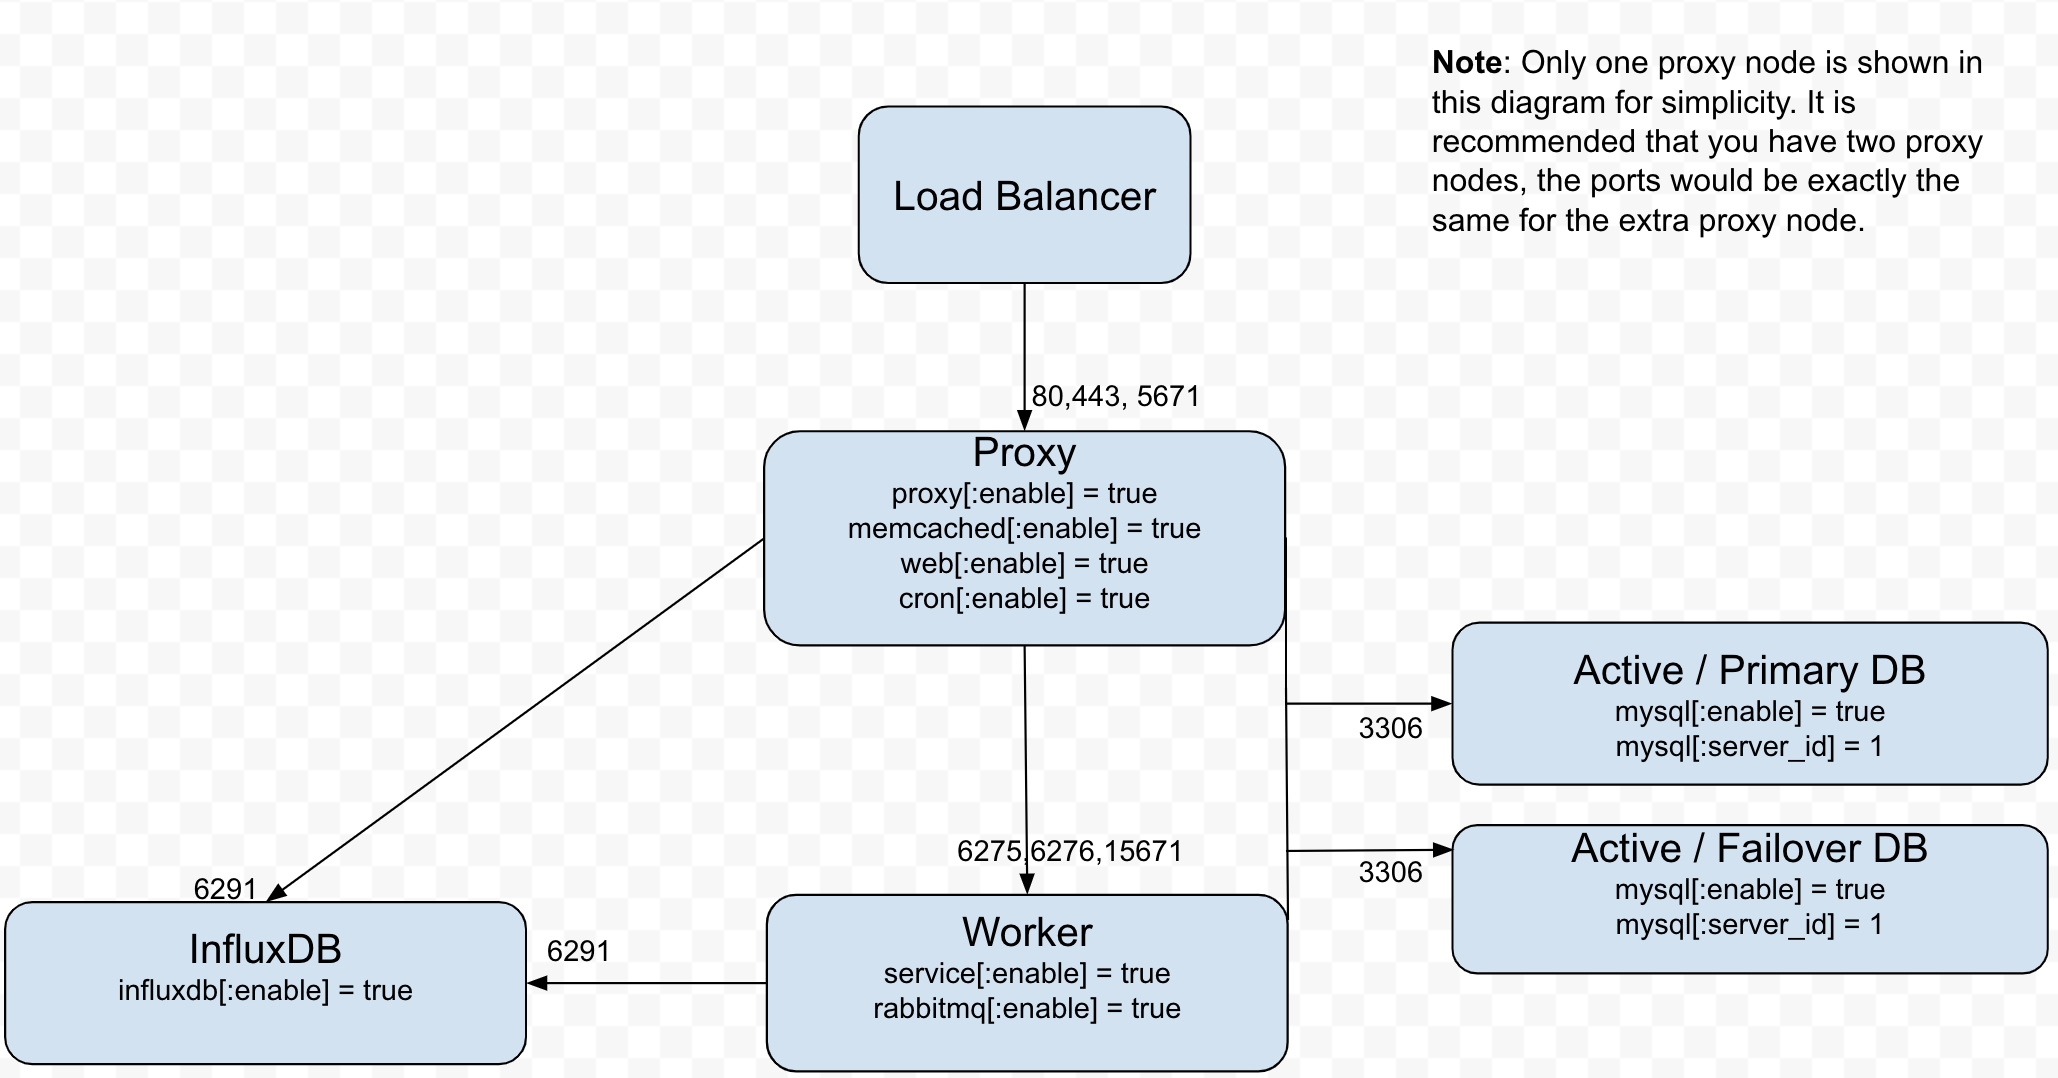
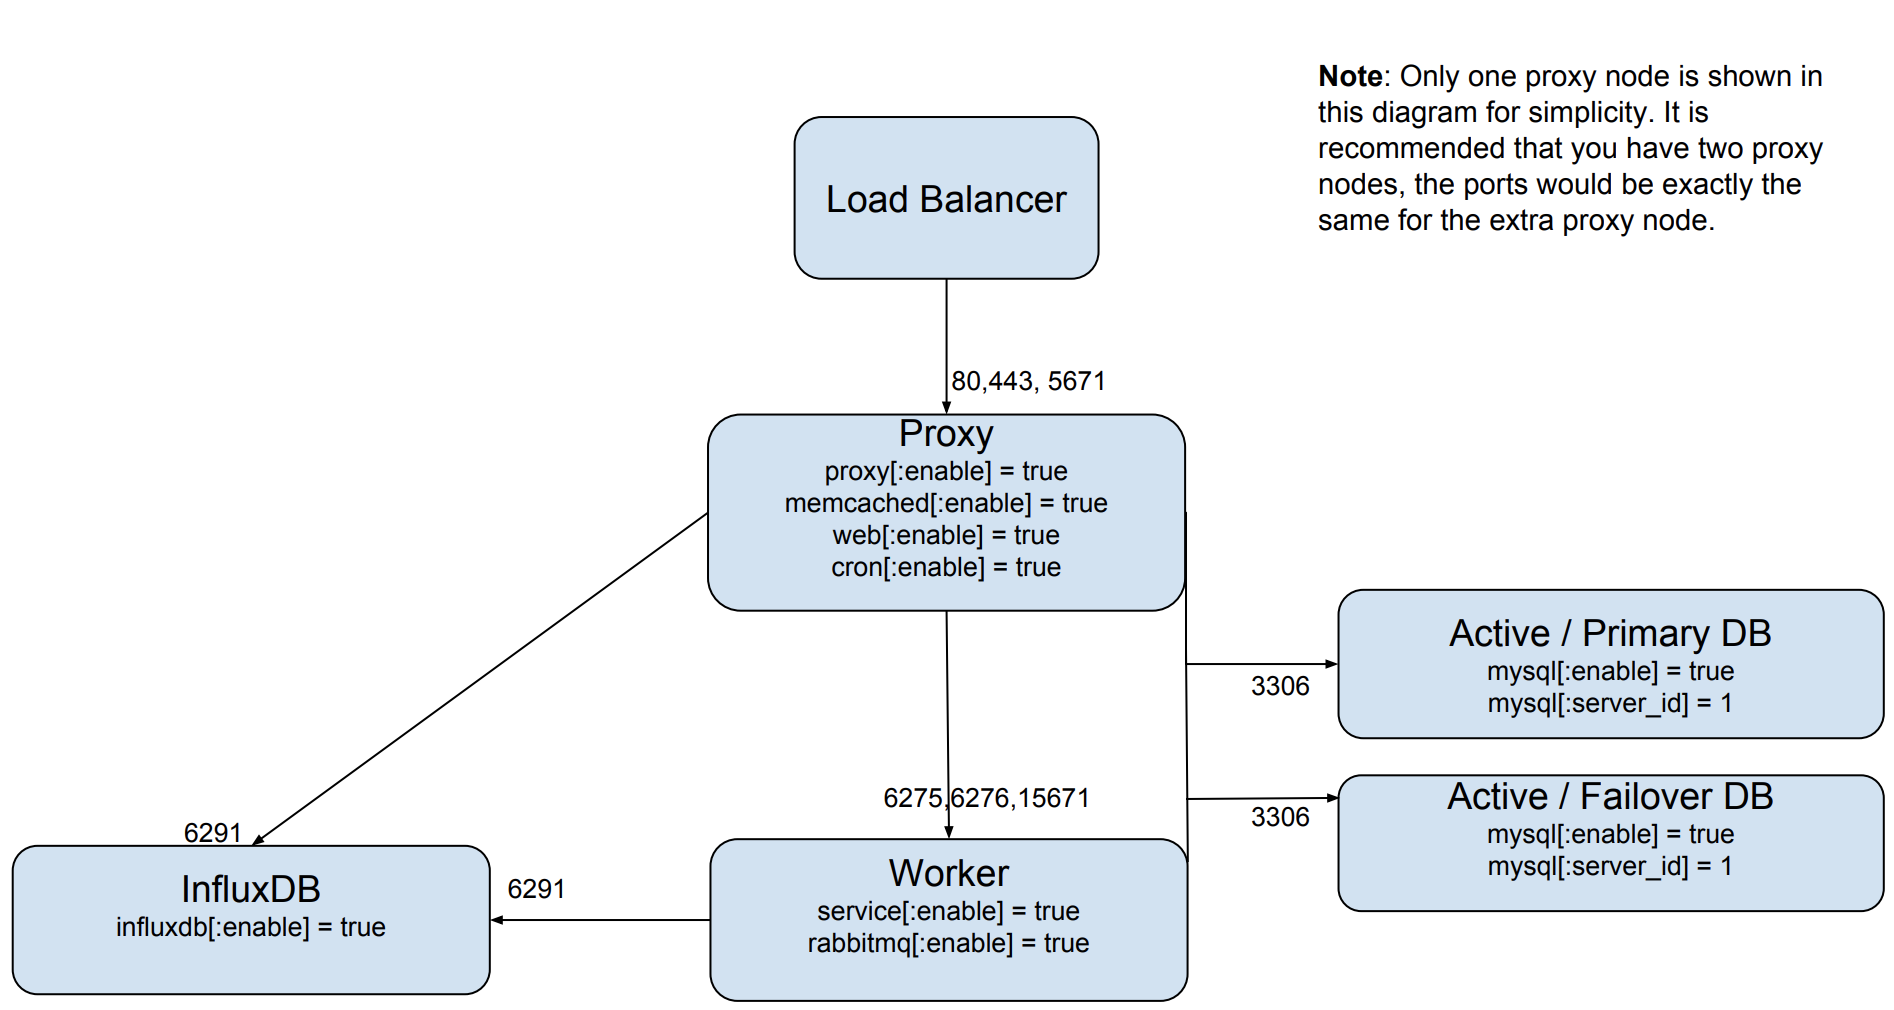
Updated image size

diff --git a/install_guide/scalr_server_architecture.rst b/install_guide/scalr_server_architecture.rst
@@ -8,7 +8,7 @@ Architecture
 The recommended Scalr HA deployment consists of 6 VMs (Instances) and is outlined in the following diagram:
 
 .. image:: images/Scalr_Arch.png
-   :scale: 60 %
+   :scale: 50 %
 
 It is completely acceptable to group multiple components onto one virtual machine as the load for these services are minimal. The following are the recommended specs for the initial configuration:
 
